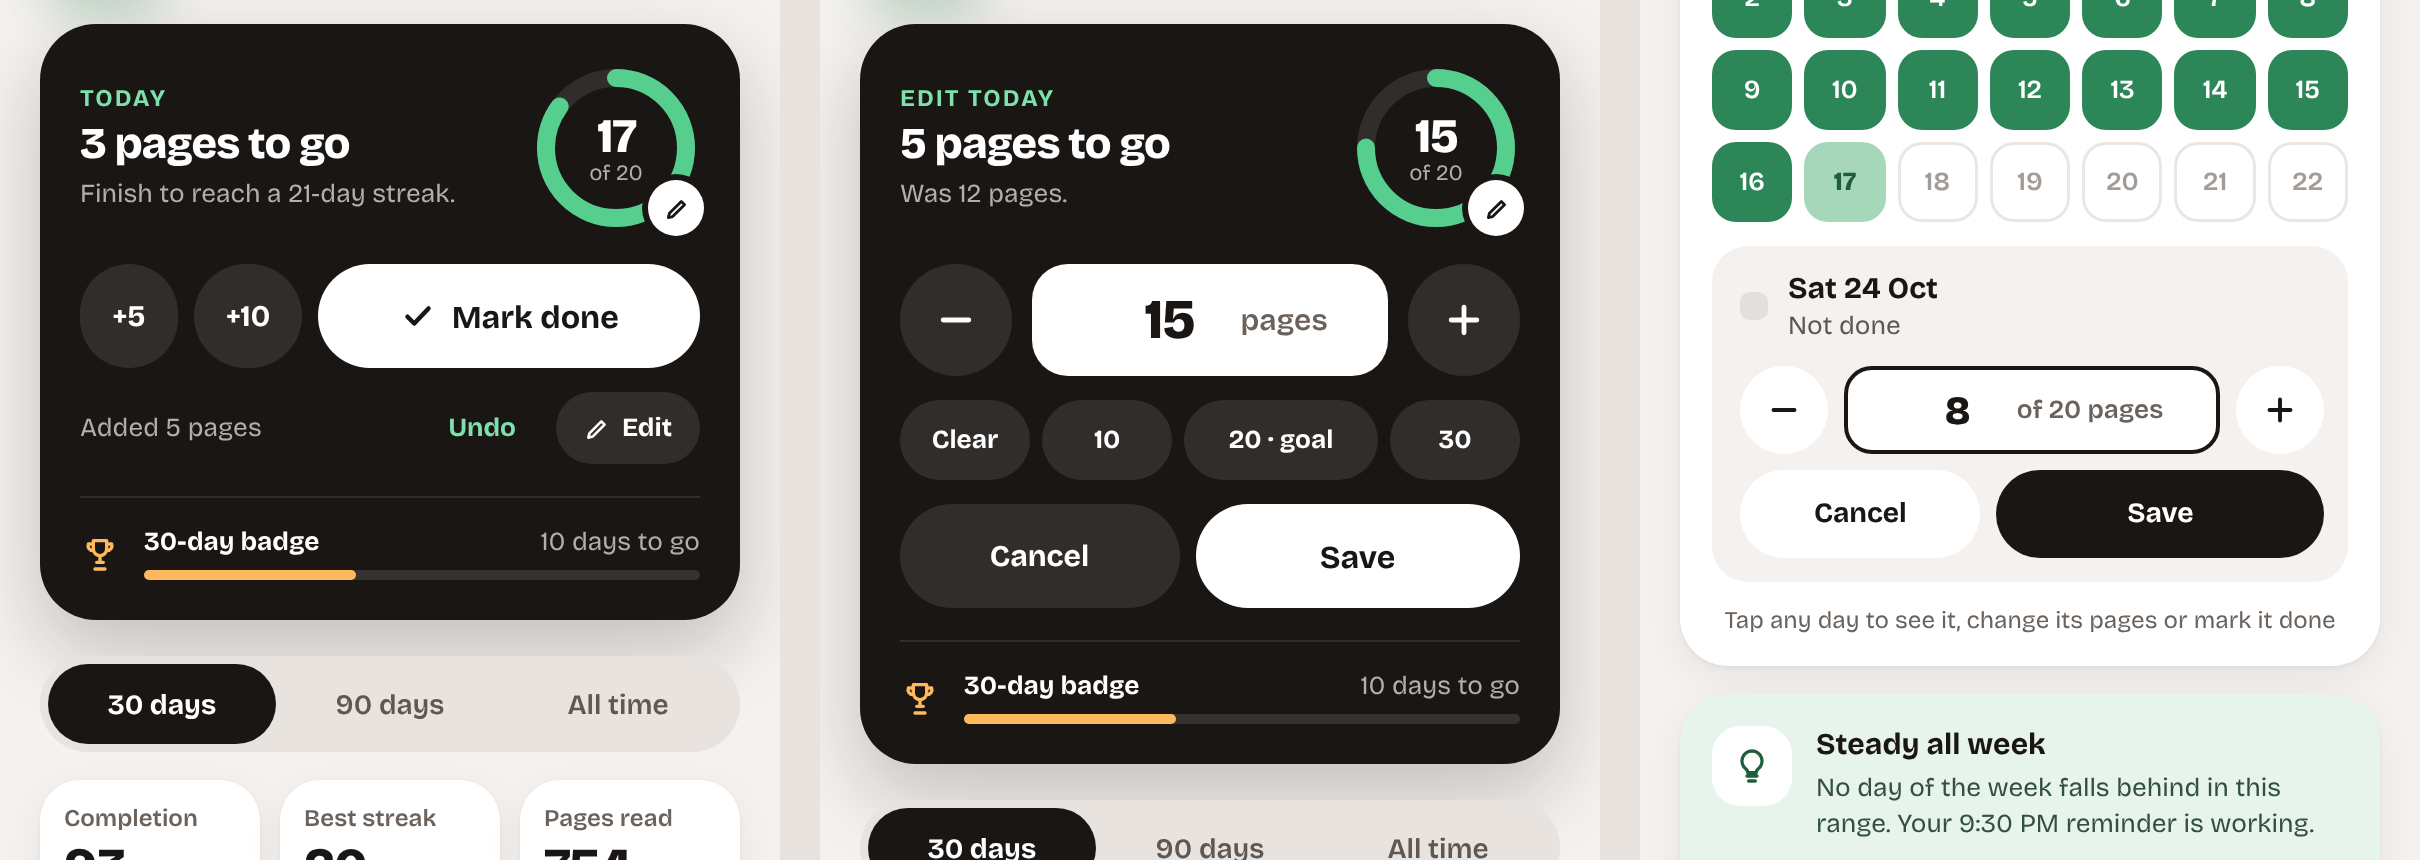
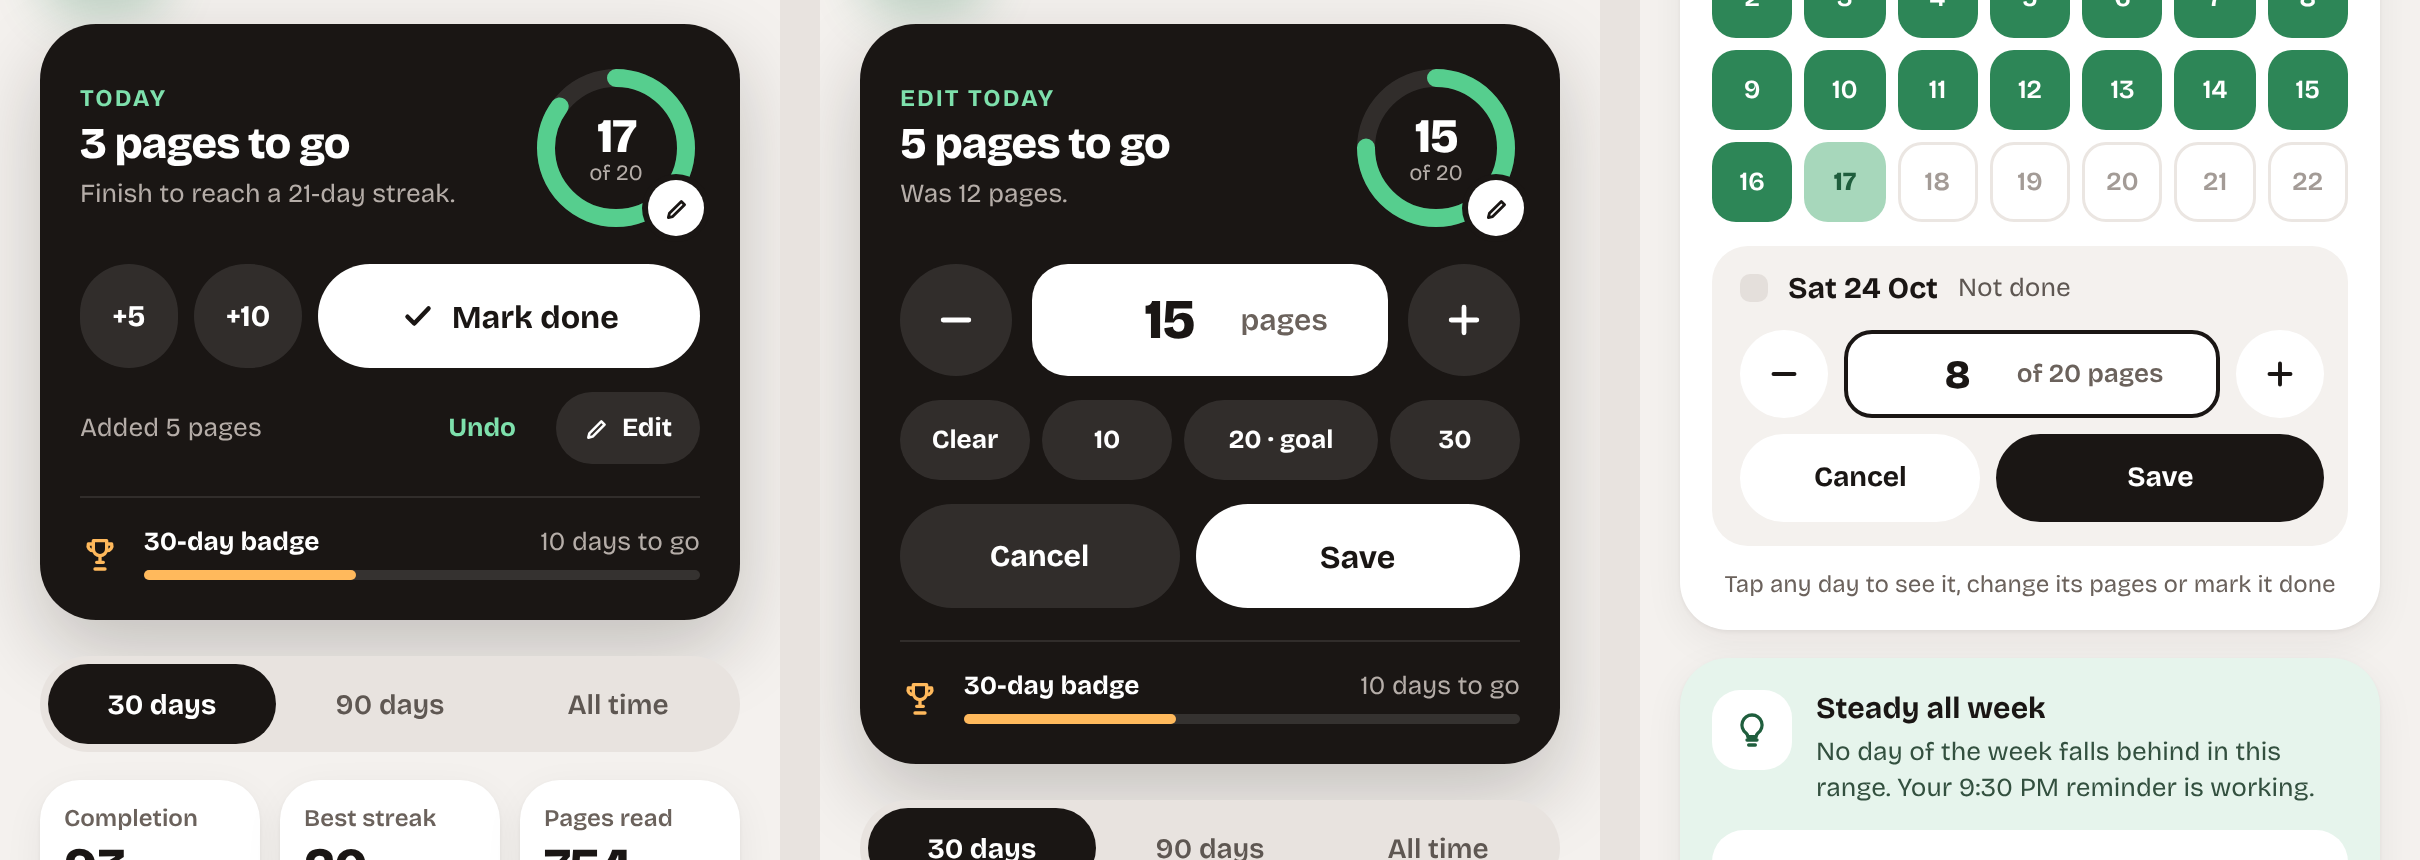
Redesign handoff: stop the habit day bar from wrapping (screen 23)
The selected-day bar put the date, status, an icon-only edit button and Mark
done on one line, so the text wrapped onto four lines. It is now two rows:
date and status on one line, then labelled Edit pages and Mark done buttons.

Claude-Session: https://claude.ai/code/session_01DZHZYS88iF4MUAUYDyW983

Changed region(s): [[0.6818, 0.4233, 0.9917, 1.0], [0.7438, 0.3326, 0.8988, 0.393]]

diff --git a/docs/redesign/html/23-habit-detail.html b/docs/redesign/html/23-habit-detail.html
@@ -199,18 +199,18 @@ button:disabled{cursor:default}
     <div style="display: flex; flex-direction: column; gap: 12px; padding: 12px 12px 12px 14px; border-radius: 18px; background: #F4F1EE">
       <div style="display: flex; align-items: center; gap: 10px">
         <span style="width: 14px; height: 14px; border-radius: 5px; flex-shrink: 0; background: #A7D7BB"></span>
-        <div style="display: flex; flex-direction: column; gap: 2px; flex-grow: 1; min-width: 0">
-          <span style="font-size: 15px; font-weight: 700">Tue 17 Nov · Today</span>
-          <span style="font-size: 13px; color: #5E5752">12 of 20 pages so far</span>
-        </div>
-        
-          <button aria-label="Change pages for Tue 17 Nov" onclick="() =&gt; this.setState({ edit: { t, v: info(t).pages || 0 }, sel: t, lastAdd: 0 })" style="width: 40px; height: 40px; border-radius: 20px; border: none; background: #FFFFFF; display: flex; align-items: center; justify-content: center; flex-shrink: 0"><svg aria-hidden="true" width="16" height="16" viewBox="0 0 24 24" fill="none" stroke="#1A1614" stroke-width="2.2" stroke-linecap="round" stroke-linejoin="round"><path d="M4 20l4-1L19 8l-3-3L5 16z"></path></svg></button>
+        <span style="font-size: 15px; font-weight: 700; white-space: nowrap">Today</span>
+        <span style="font-size: 13px; color: #5E5752; white-space: nowrap; overflow: hidden; text-overflow: ellipsis; min-width: 0">12 of 20 pages</span>
+      </div>
+      
+        <div style="display: flex; gap: 8px">
+          <button aria-label="Change pages for Tue 17 Nov" onclick="() =&gt; this.setState({ edit: { t, v: info(t).pages || 0 }, sel: t, lastAdd: 0 })" style="flex: 1; height: 44px; border-radius: 22px; border: none; background: #FFFFFF; color: #1A1614; font-size: 14px; font-weight: 700; display: flex; align-items: center; justify-content: center; gap: 6px"><svg aria-hidden="true" width="15" height="15" viewBox="0 0 24 24" fill="none" stroke="#1A1614" stroke-width="2.2" stroke-linecap="round" stroke-linejoin="round"><path d="M4 20l4-1L19 8l-3-3L5 16z"></path></svg>Edit pages</button>
           <button onclick="() =&gt; {
     const f = info(t);
     commit(t, f.s === 'done' ? 0 : Math.max(GOAL, f.pages || 0));
-  }" style="height: 40px; padding: 0 16px; border-radius: 20px; border: none; font-size: 14px; font-weight: 700; flex-shrink: 0; background: #1A1614; color: #FFFFFF">Mark done</button>
-        
-      </div>
+  }" style="flex: 1; height: 44px; border-radius: 22px; border: none; font-size: 14px; font-weight: 700; background: #1A1614; color: #FFFFFF">Mark done</button>
+        </div>
+      
       
     </div>
     <span style="font-size: 12px; color: #6B625C; text-align: center">Tap any day to see it, change its pages or mark it done</span>

diff --git a/docs/redesign/screens/23-habit-detail.png.html b/docs/redesign/screens/23-habit-detail.png.html
@@ -151,15 +151,15 @@ button:disabled{cursor:default}
     <div style="display: flex; flex-direction: column; gap: 12px; padding: 12px 12px 12px 14px; border-radius: 18px; background: #F4F1EE">
       <div style="display: flex; align-items: center; gap: 10px">
         <span style="{{sel.dotStyle}}"></span>
-        <div style="display: flex; flex-direction: column; gap: 2px; flex-grow: 1; min-width: 0">
-          <span style="font-size: 15px; font-weight: 700">{{sel.title}}</span>
-          <span style="font-size: 13px; color: #5E5752">{{sel.detail}}</span>
-        </div>
-        <sc-if value="{{sel.notEditing}}" hint-placeholder-val="{{ true }}">
-          <button aria-label="{{sel.editAria}}" onClick="{{sel.startEdit}}" style="width: 40px; height: 40px; border-radius: 20px; border: none; background: #FFFFFF; display: flex; align-items: center; justify-content: center; flex-shrink: 0"><svg aria-hidden="true" width="16" height="16" viewBox="0 0 24 24" fill="none" stroke="#1A1614" stroke-width="2.2" stroke-linecap="round" stroke-linejoin="round"><path d="M4 20l4-1L19 8l-3-3L5 16z"></path></svg></button>
-          <button onClick="{{sel.toggle}}" style="{{sel.btnStyle}}">{{sel.btn}}</button>
-        </sc-if>
+        <span style="font-size: 15px; font-weight: 700; white-space: nowrap">{{sel.title}}</span>
+        <span style="font-size: 13px; color: #5E5752; white-space: nowrap; overflow: hidden; text-overflow: ellipsis; min-width: 0">{{sel.detail}}</span>
       </div>
+      <sc-if value="{{sel.notEditing}}" hint-placeholder-val="{{ true }}">
+        <div style="display: flex; gap: 8px">
+          <button aria-label="{{sel.editAria}}" onClick="{{sel.startEdit}}" style="flex: 1; height: 44px; border-radius: 22px; border: none; background: #FFFFFF; color: #1A1614; font-size: 14px; font-weight: 700; display: flex; align-items: center; justify-content: center; gap: 6px"><svg aria-hidden="true" width="15" height="15" viewBox="0 0 24 24" fill="none" stroke="#1A1614" stroke-width="2.2" stroke-linecap="round" stroke-linejoin="round"><path d="M4 20l4-1L19 8l-3-3L5 16z"></path></svg>Edit pages</button>
+          <button onClick="{{sel.toggle}}" style="{{sel.btnStyle}}">{{sel.btn}}</button>
+        </div>
+      </sc-if>
       <sc-if value="{{sel.editing}}" hint-placeholder-val="{{ false }}">
         <div style="display: flex; flex-direction: column; gap: 8px">
           <div style="display: flex; align-items: center; gap: 8px">

diff --git a/docs/redesign/HANDOFF.md b/docs/redesign/HANDOFF.md
@@ -262,10 +262,12 @@ Everything below can be built from `Habits`, `HabitLogs` and `HabitStats`.
   under target — matches `HabitStats.intensityOn`), Missed. Days before the
   habit existed, and days not in its schedule, are drawn empty and are never
   counted as missed.
-- **Tap a day** to show its detail in the bar under the grid. The bar has a
-  pencil button and Mark done / Undo. The pencil opens the same − / field / +
-  editor inline in the bar, with Cancel / Save on their own row; for today it
-  opens the editor in the Today card instead. Edited past days show
+- **Tap a day** to show its detail in the bar under the grid. The bar is two
+  rows: the date (or "Today") and its status on one line that never wraps
+  (ellipsis if needed), then two equal labelled buttons, **Edit pages** and
+  **Mark done** / **Undo**. No icon-only buttons here. Edit pages opens the
+  same − / field / + editor inline in the bar, with Cancel / Save on their own
+  row; for today it opens the editor in the Today card instead. Edited past days show
   "· edited" in their detail line. Mark done writes the full target, Undo
   writes 0. No floating tooltip.
 - **Stats**: Completion with the change versus the previous range of equal
